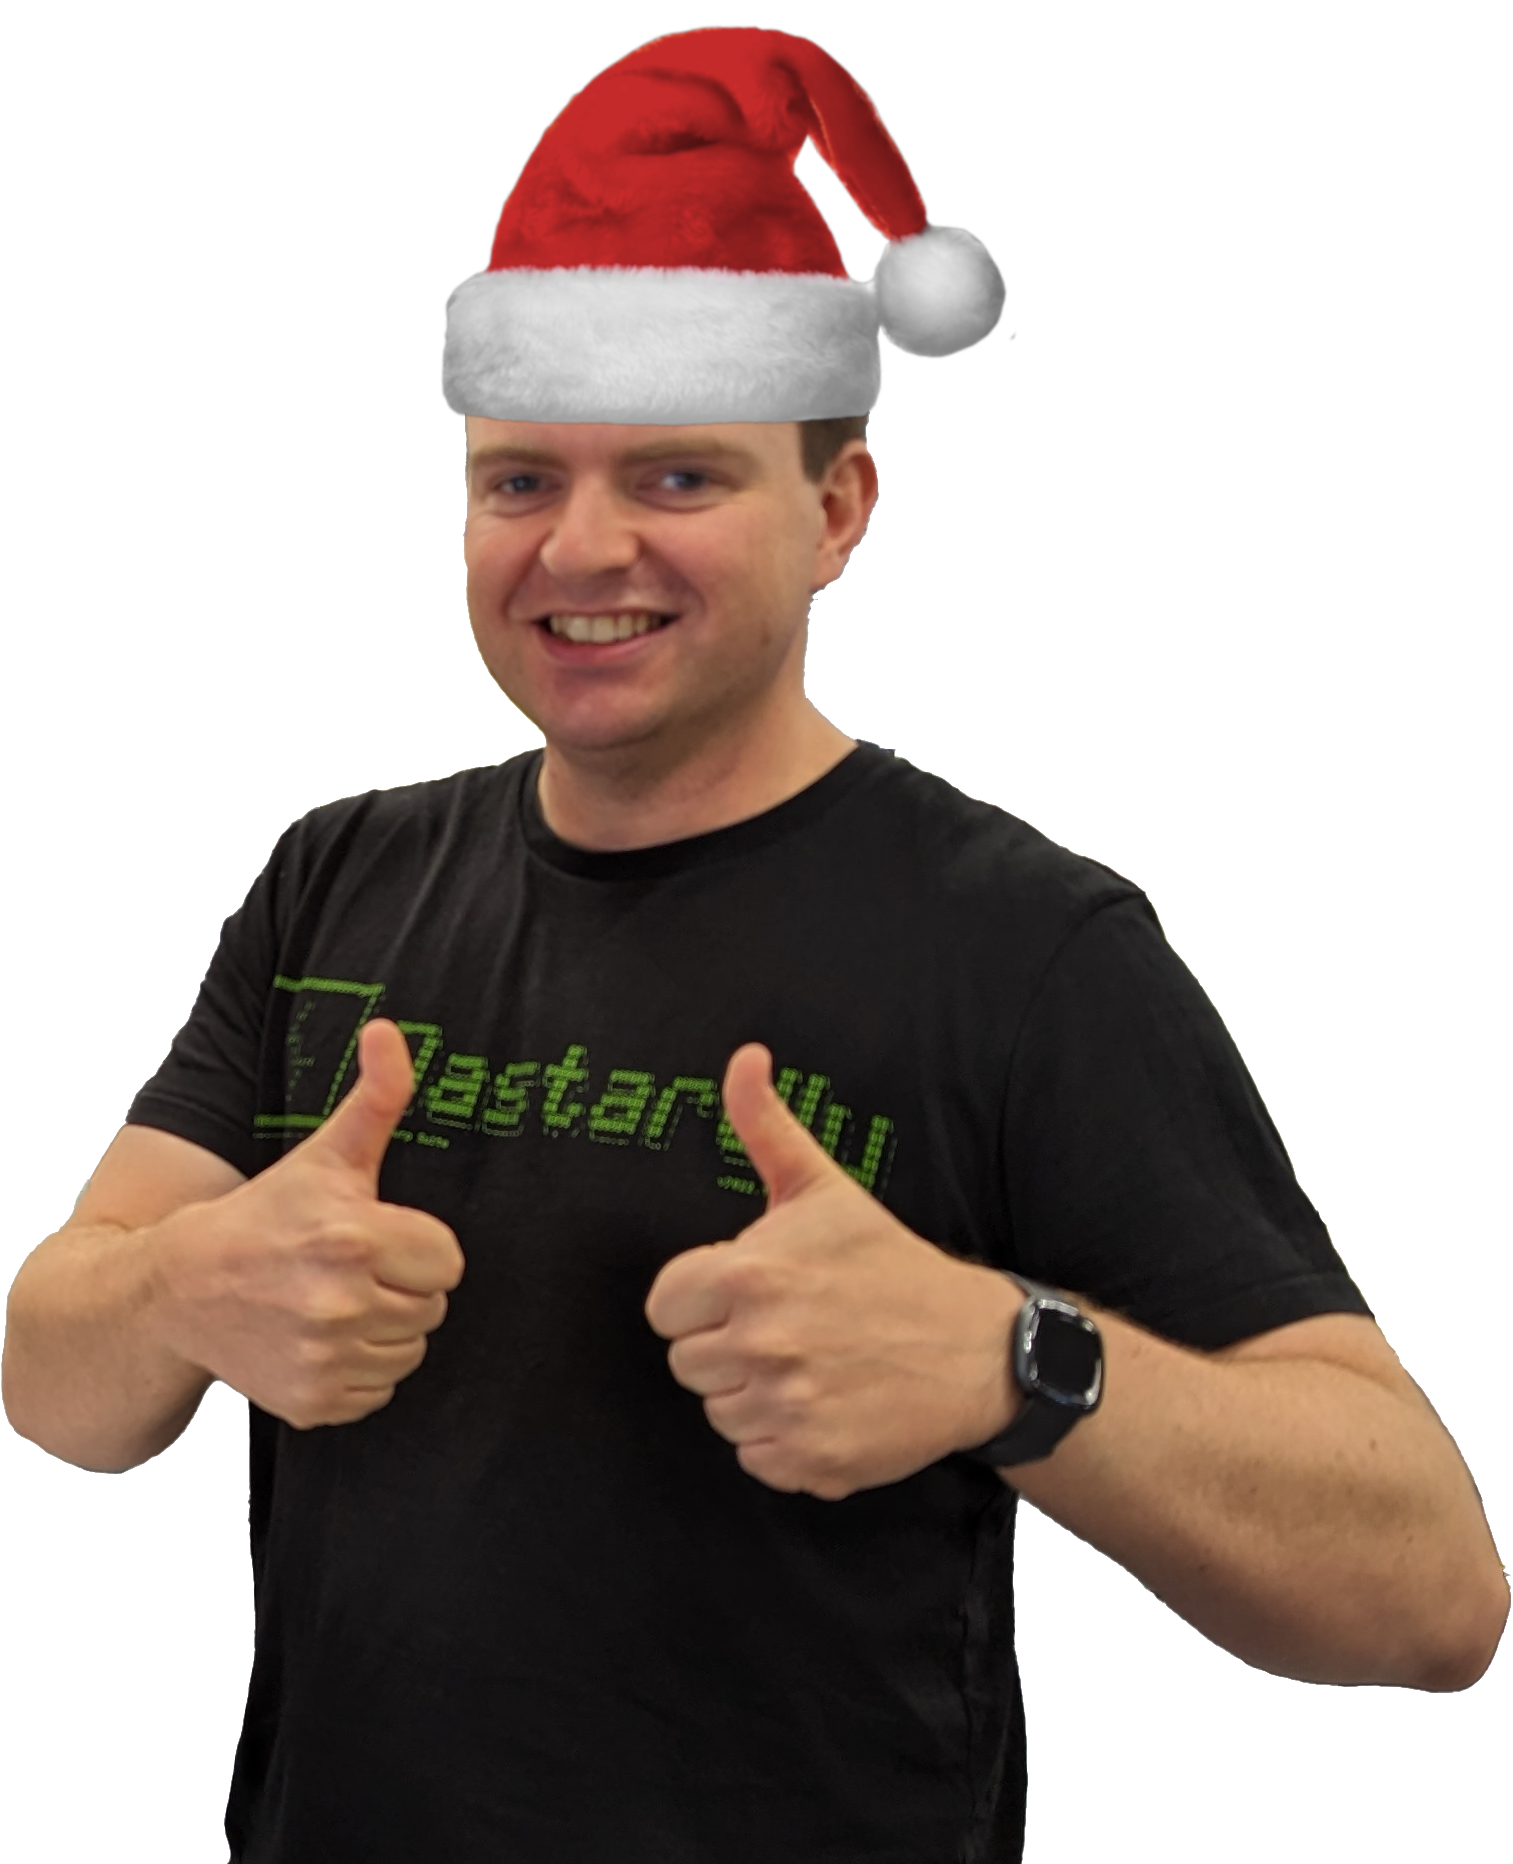
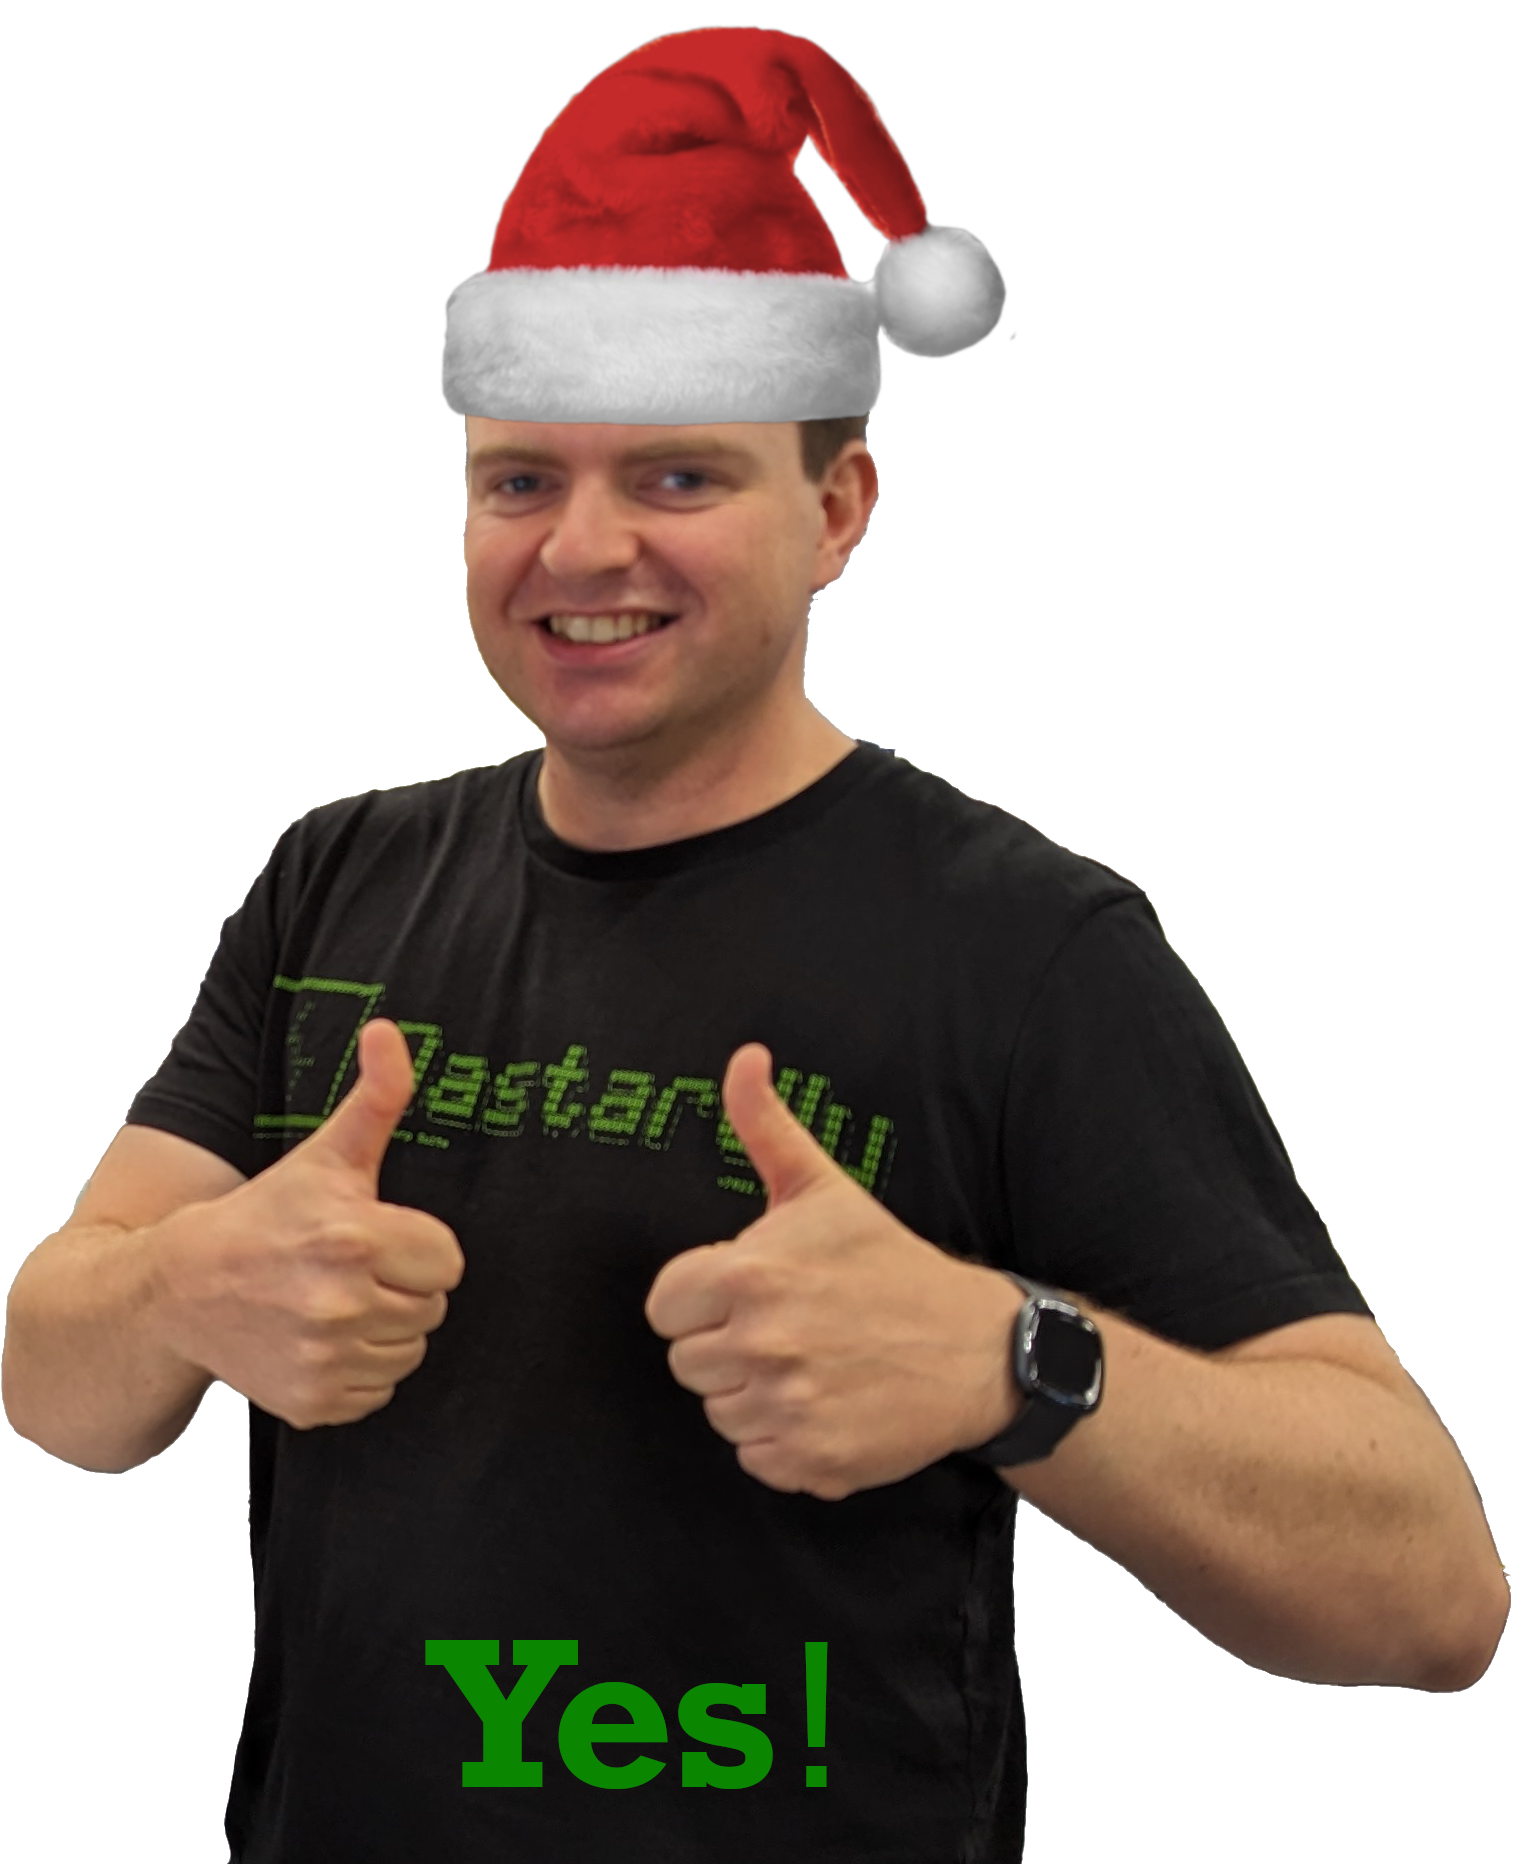
Update to include text in picture

Changed region(s): [[0.2796, 0.8712, 0.5592, 0.9646]]

diff --git a/index.html b/index.html
@@ -9,8 +9,6 @@
             <img src="daves/christmas_dave.png"/>
         </div>
 
-        <h1>Yes!</h1>
-
         <div id="confettiWrapper"></div>
 
         <script src="https://cdn.jsdelivr.net/npm/canvas-confetti@1.5.1/dist/confetti.browser.min.js"></script>

diff --git a/resources/style.css b/resources/style.css
@@ -2,14 +2,6 @@ body {
     background: #1c1b1b;
 }
 
-h1 {
-    color: #5ff085;
-    font-size: 10vh;
-    position: fixed;
-    bottom: 0;
-    left: 40%;
-}
-
 #dave {
   position: fixed;
   bottom: 0;
